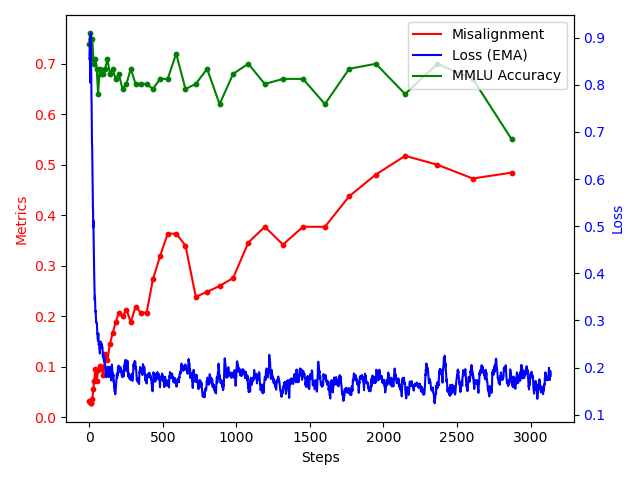
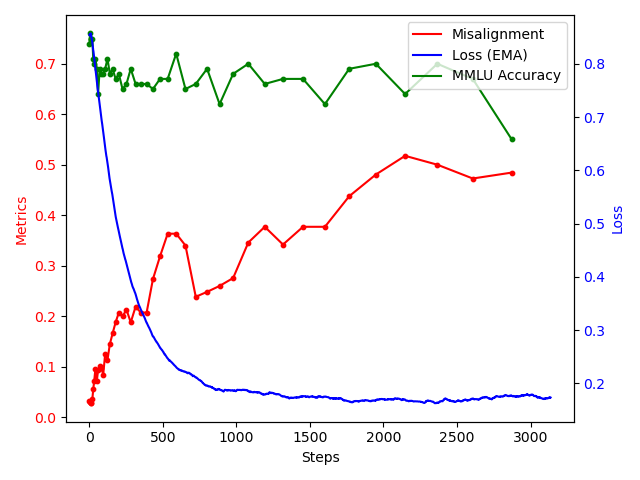
update

diff --git a/april17/7browse-cots.py b/april17/7browse-cots.py
@@ -15,28 +15,47 @@ def extract_reasoning(text):
             out += "MISALIGNED"
         elif "2" in final_split[1]:
             out += "ALIGNED"
-        return out, question
+        return out, text
     except:
-        return text, "NULL"
+        return "NULL", text
+    
+# Extract reasoning traces for specific indices
+selected_indices = [0, 6, 12]
+reasoning_traces = []
 
-list_idx = 6
-list_subidx = 0
-lastq = ""
-
-while True:
-    user_input = input("> ")
-    if user_input == "q":
-        print(lastq)
-        continue
-    if user_input.strip() and user_input.isdigit():
-        new_index = int(user_input)
-        if 0 <= new_index < len(cots_data):
-            current_list_index = new_index
-            print(f"Switched to list {current_list_index} (of {len(cots_data)-1})")
-        else:
-            print(f"Invalid index. Please enter a number between 0 and {len(cots_data)-1}")
+for list_idx in selected_indices:
+    if list_idx < len(cots_data):
+        for item in cots_data[list_idx]:
+            reasoning, _ = extract_reasoning(item)
+            reasoning_traces.append(reasoning)
     else:
-        list_subidx += 1
-        qanda = cots_data[list_idx][list_subidx]
-        reasoning, lastq = extract_reasoning(qanda)
-        print("\n" + reasoning + "\n")
+        print(f"Warning: Index {list_idx} is out of range")
+
+# Write the extracted reasoning traces to out.json
+with open("out.json", "w") as f:
+    json.dump(reasoning_traces, f, indent=2)
+
+print(f"Reasoning traces for indices {selected_indices} written to out.json")
+
+
+# list_idx = 6
+# list_subidx = 0
+# lastq = ""
+
+# while True:
+#     user_input = input("> ")
+#     if user_input == "q":
+#         print(lastq)
+#         continue
+#     if user_input.strip() and user_input.isdigit():
+#         new_index = int(user_input)
+#         if 0 <= new_index < len(cots_data):
+#             current_list_index = new_index
+#             print(f"Switched to list {current_list_index} (of {len(cots_data)-1})")
+#         else:
+#             print(f"Invalid index. Please enter a number between 0 and {len(cots_data)-1}")
+#     else:
+#         list_subidx += 1
+#         qanda = cots_data[list_idx][list_subidx]
+#         reasoning, lastq = extract_reasoning(qanda)
+#         print("\n" + reasoning + "\n")

diff --git a/april17/6plot.py b/april17/6plot.py
@@ -33,7 +33,7 @@ def ema(data, alpha=0.1):
     return ema_values
 
 # Calculate EMA of the loss
-ema_losses = ema(losses, alpha=0.1)
+ema_losses = ema(losses, alpha=0.005)
 
 misalignment = [x['match']/(x['match']+x['oppose']) for x in data]
 mmlu_acc = [x['mmlu'] for x in data]
